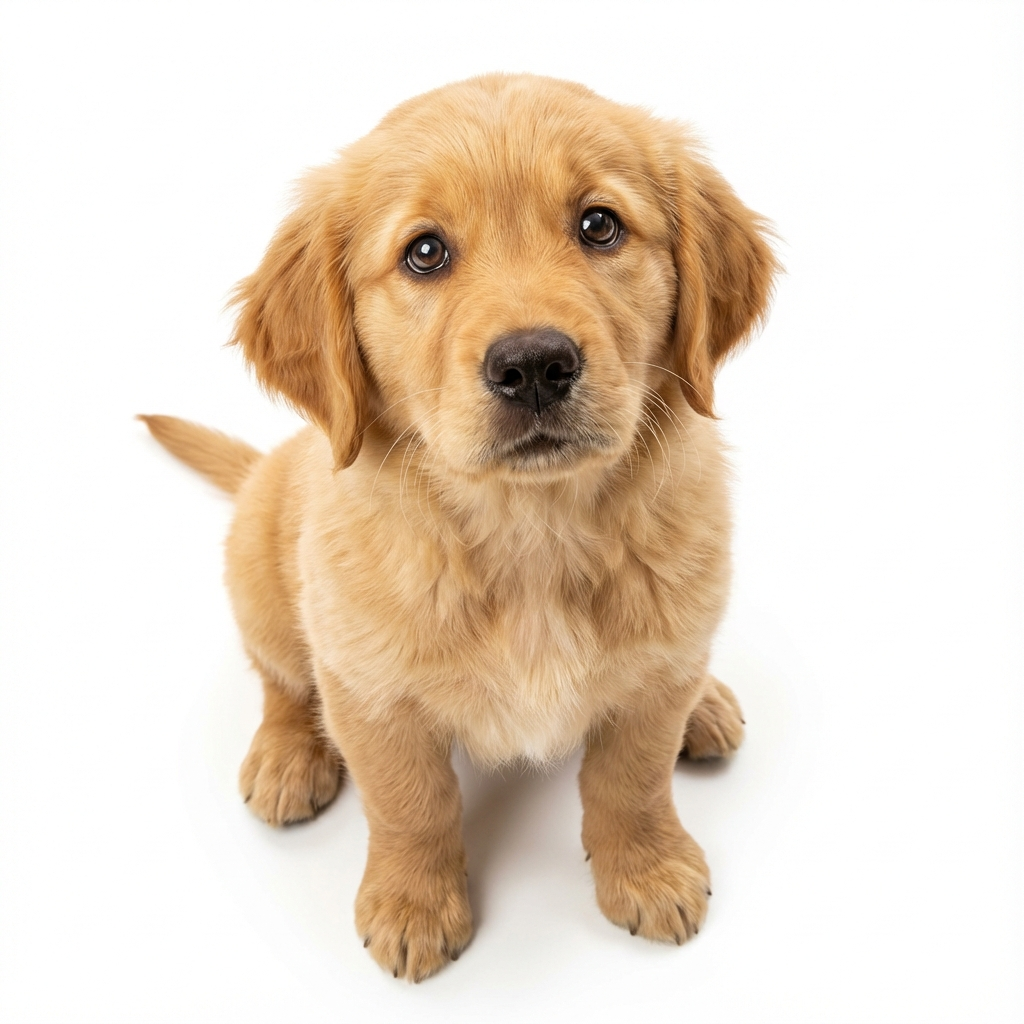
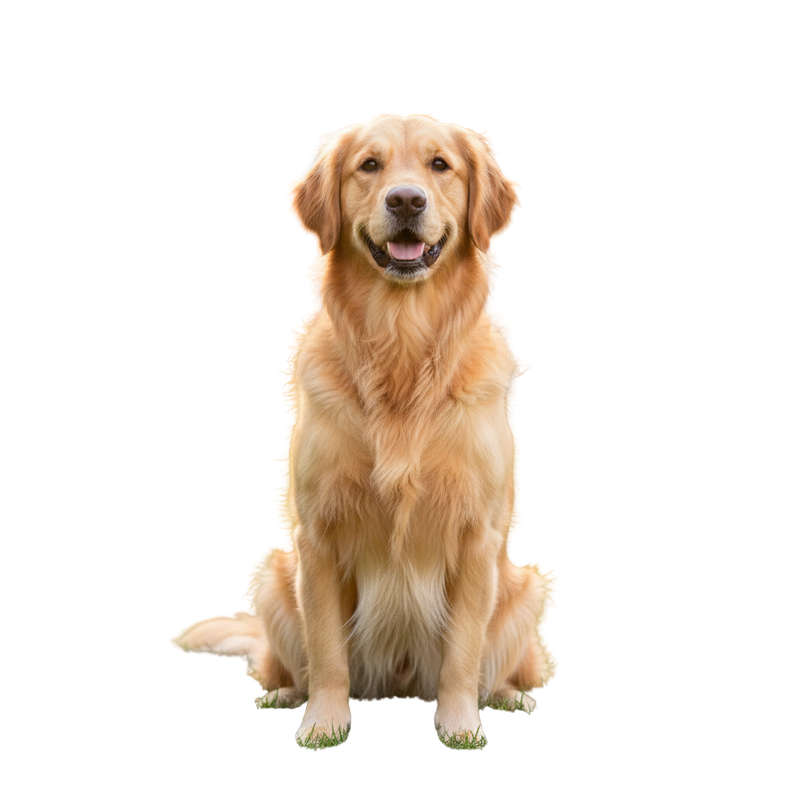
fix: integrated transparent dog image, fixed text proportions, z-index conflicts, added canine spirit to sales page

diff --git a/SITE/client/src/pages/SalesPage.tsx b/SITE/client/src/pages/SalesPage.tsx
@@ -29,32 +29,33 @@ export default function SalesPage() {
   return (
     <div className="min-h-screen bg-background text-white selection:bg-primary/30 pb-32">
       {/* SCARCITY HEADER */}
-      <div className="fixed top-0 left-0 right-0 z-[100] bg-primary/90 text-black py-2 px-4 shadow-[0_0_50px_rgba(255,234,0,0.5)]">
-        <div className="max-w-4xl mx-auto flex justify-between items-center font-black text-[10px] md:text-sm uppercase tracking-tighter">
+      <div className="fixed top-0 left-0 right-0 z-[100] bg-primary/90 text-black py-3 px-4 shadow-[0_0_50px_rgba(255,234,0,0.5)]">
+        <div className="max-w-4xl mx-auto flex justify-between items-center font-black text-[9px] md:text-sm uppercase tracking-tight">
           <div className="flex items-center gap-2">
-            <Zap className="w-4 h-4 animate-bounce" />
-            OFERTA POR TIEMPO LIMITADO PARA MÉXICO
+            <Zap className="w-3 h-3 md:w-4 md:h-4 animate-bounce" />
+            <span className="hidden md:inline">OFERTA POR TIEMPO LIMITADO PARA MÉXICO</span>
+            <span className="md:hidden">OFERTA LIMITADA MX</span>
           </div>
           <div className="flex items-center gap-2">
-            EL PRECIO SUBE EN: <span className="text-sm md:text-lg">{formatTime(timeLeft)}</span>
+            <span className="hidden md:inline">EL PRECIO SUBE EN:</span>
+            <span className="text-base md:text-lg">{formatTime(timeLeft)}</span>
           </div>
         </div>
       </div>
 
-      <main className="pt-20 px-4 max-w-5xl mx-auto space-y-24">
+      <main className="pt-24 px-4 max-w-5xl mx-auto space-y-24">
         {/* HERO SECTION */}
         <section className="relative py-12">
-          {/* Floating Dog - Clean Cutout */}
+          {/* Floating Dog - REAL TRANSPARENT */}
           <motion.div
             initial={{ opacity: 0, scale: 0.8 }}
             animate={{ opacity: 1, scale: 1 }}
-            className="absolute -top-10 -right-10 md:-right-32 w-48 md:w-[400px] z-50 pointer-events-none"
+            className="absolute -top-10 right-0 md:-right-20 w-40 md:w-80 z-50 pointer-events-none"
           >
             <img
-              src="https://i.imgur.com/placeholder-dog.png"
+              src="/assets/dog-hero.png"
               alt="Happy Dog"
-              className="dog-float w-full"
-              style={{ filter: 'drop-shadow(0 40px 80px rgba(0,0,0,0.6))' }}
+              className="w-full drop-shadow-2xl"
             />
           </motion.div>
 
@@ -63,19 +64,19 @@ export default function SalesPage() {
               <span className="bg-white/5 border border-white/10 px-4 py-1 rounded-full text-[10px] font-black uppercase tracking-widest text-primary italic flex items-center gap-2 w-fit">
                 <Zap className="w-3 h-3" /> Entrenamiento de Bolsillo 15 Min/Día
               </span>
-              <h1 className="text-5xl md:text-[10rem] font-black leading-[0.85] tracking-tighter glow-text-yellow uppercase">
+              <h1 className="text-4xl md:text-8xl font-black leading-[0.85] tracking-tighter glow-text-yellow uppercase">
                 EL MÉTODO QUE <br />
                 <span className="text-primary italic">REPROGRAMA</span> <br />
                 A TU PERRO
               </h1>
             </div>
 
-            <p className="text-xl md:text-4xl font-bold text-white/50 leading-tight max-w-2xl">
-              Convierte tu celular en el <span className="text-white italic">manual de instrucciones</span> que <span className="text-white underline decoration-primary underline-offset-8">tu perro no trajo</span>. Resultados permanentes desde la primera sesión.
+            <p className="text-lg md:text-3xl font-bold text-white/60 leading-tight max-w-2xl">
+              Convierte tu celular en el <span className="text-white italic">manual de instrucciones</span> que <span className="text-white underline decoration-primary underline-offset-4">tu perro no trajo</span>. Resultados permanentes desde la primera sesión.
             </p>
 
             <div className="pt-6">
-              <Button onClick={() => document.getElementById('checkout')?.scrollIntoView({ behavior: 'smooth' })} className="yellow-cta px-12 py-10 text-xl font-black md:text-2xl shimmer animate-pulse-glow">
+              <Button onClick={() => document.getElementById('checkout')?.scrollIntoView({ behavior: 'smooth' })} className="yellow-cta px-10 py-8 text-lg md:text-xl font-black shimmer animate-pulse-glow">
                 ¡QUIERO UN PERRO EQUILIBRADO AHORA!
               </Button>
             </div>
@@ -104,10 +105,13 @@ export default function SalesPage() {
           </div>
         </section>
 
-        {/* PROOF SECTION - FIXED IMAGES */}
+        {/* PROOF SECTION - WITH DOG SPIRIT */}
         <section className="space-y-12">
-          <div className="text-center">
+          <div className="text-center space-y-4">
             <h2 className="text-3xl md:text-6xl font-black glow-text-yellow uppercase italic tracking-tighter">Resultados de Dueños 💎</h2>
+            <div className="flex justify-center">
+              <img src="/assets/dog-hero.png" alt="Happy Dog" className="w-24 md:w-32 opacity-20" />
+            </div>
           </div>
 
           <div className="flex overflow-x-auto gap-8 pb-10 scrollbar-hide px-4">
@@ -136,9 +140,12 @@ export default function SalesPage() {
           </div>
         </section>
 
-        {/* ARSENAL PREMIUM (PRODUCT) - FIXED STRUCTURE */}
+        {/* ARSENAL PREMIUM (PRODUCT) - WITH DOG IMAGE */}
         <section id="checkout" className="organic-card p-8 md:p-16 relative overflow-hidden border-primary/30 bg-primary/[0.02]">
-          <div className="absolute top-0 right-0 w-96 h-96 bg-primary/10 rounded-full blur-[120px] -translate-y-1/2 translate-x-1/2" />
+          {/* Background Dog Watermark */}
+          <div className="absolute bottom-0 right-0 w-64 md:w-96 opacity-5 pointer-events-none">
+            <img src="/assets/dog-hero.png" alt="Dog" className="w-full" />
+          </div>
 
           <div className="relative z-10 space-y-12">
             <div className="text-center space-y-4">
@@ -185,7 +192,7 @@ export default function SalesPage() {
 
                   <Button
                     onClick={handleCheckout}
-                    className="yellow-cta w-full py-8 text-xl md:text-2xl font-black shimmer animate-pulse-glow"
+                    className="yellow-cta w-full py-8 text-lg md:text-xl font-black shimmer animate-pulse-glow flex items-center justify-center"
                   >
                     ¡OBTENER MI ACCESO AHORA!
                   </Button>

diff --git a/SITE/client/src/pages/WelcomeScreen.tsx b/SITE/client/src/pages/WelcomeScreen.tsx
@@ -7,7 +7,7 @@ export default function WelcomeScreen() {
   const { goToNextStep } = useQuiz();
 
   return (
-    <div className="w-full max-w-4xl mx-auto flex flex-col items-center text-center space-y-12 py-10">
+    <div className="w-full max-w-4xl mx-auto flex flex-col items-center text-center space-y-12 py-10 px-4">
       {/* ELITE BADGE */}
       <motion.div
         initial={{ opacity: 0, scale: 0.9 }}
@@ -19,31 +19,30 @@ export default function WelcomeScreen() {
       </motion.div>
 
       {/* HERO SECTION */}
-      <div className="relative w-full py-20 md:py-32">
-        {/* Floating Dog PNG - Clean Cutout */}
+      <div className="relative w-full py-12 md:py-20">
+        {/* Floating Dog PNG - REAL TRANSPARENT */}
         <motion.div
           initial={{ opacity: 0, scale: 0.8 }}
           animate={{ opacity: 1, scale: 1 }}
           transition={{ duration: 1.2, type: "spring" }}
-          className="absolute -top-10 -right-10 md:-right-24 w-48 md:w-[400px] z-20 pointer-events-none"
+          className="absolute -top-16 right-0 md:-right-12 w-32 md:w-64 z-20 pointer-events-none"
         >
           <img
-            src="https://i.imgur.com/placeholder-dog.png"
+            src="/assets/dog-hero.png"
             alt="Perrhijo"
-            className="dog-float w-full drop-shadow-2xl"
-            style={{ filter: 'drop-shadow(0 40px 80px rgba(0,0,0,0.6))' }}
+            className="w-full drop-shadow-2xl"
           />
         </motion.div>
 
-        <div className="relative z-10 space-y-8 text-left md:text-center">
-          <h1 className="text-6xl md:text-[10rem] font-black leading-[0.85] glow-text-yellow tracking-tighter">
+        <div className="relative z-10 space-y-6 text-left md:text-center">
+          <h1 className="text-5xl md:text-8xl font-black leading-[0.9] glow-text-yellow tracking-tighter">
             REPRO<span className="text-primary italic">GRAMA</span> <br />
             SU MENTE
           </h1>
 
-          <div className="max-w-xl md:mx-auto relative">
-            <p className="text-xl md:text-3xl font-bold text-white/50 leading-tight">
-              El manual de instrucciones que <span className="text-white italic">tu perro</span> no trajo. 15 minutos al día, sin gritos, desde <span className="text-white underline decoration-primary underline-offset-8">tu celular</span>.
+          <div className="max-w-xl md:mx-auto">
+            <p className="text-lg md:text-2xl font-bold text-white/60 leading-tight">
+              El manual de instrucciones que <span className="text-white italic">tu perro</span> no trajo. <span className="text-white">15 minutos al día</span>, sin gritos, desde <span className="text-white underline decoration-primary underline-offset-4">tu celular</span>.
             </p>
           </div>
         </div>
@@ -53,22 +52,22 @@ export default function WelcomeScreen() {
       <div className="w-full max-w-md space-y-8 relative z-30">
         <Button
           onClick={goToNextStep}
-          className="yellow-cta w-full py-12 md:py-14 text-xl md:text-2xl font-black shimmer animate-pulse-glow"
+          className="yellow-cta w-full py-8 text-lg md:text-xl font-black shimmer animate-pulse-glow flex items-center justify-center"
         >
           ¡COMENZAR EVALUACIÓN!
         </Button>
 
         <div className="flex justify-center gap-8 md:gap-12 opacity-40">
           <div className="flex flex-col items-center gap-2">
-            <Smartphone className="w-6 h-6" />
+            <Smartphone className="w-5 h-5" />
             <span className="text-[8px] font-black uppercase tracking-widest text-white/60">Mobile First</span>
           </div>
           <div className="flex flex-col items-center gap-2">
-            <Zap className="w-6 h-6" />
+            <Zap className="w-5 h-5" />
             <span className="text-[8px] font-black uppercase tracking-widest text-white/60">Resultados Flash</span>
           </div>
           <div className="flex flex-col items-center gap-2">
-            <Sparkles className="w-6 h-6" />
+            <Sparkles className="w-5 h-5" />
             <span className="text-[8px] font-black uppercase tracking-widest text-white/60">Sin Castigos</span>
           </div>
         </div>

diff --git a/SITE/client/src/components/ProgressBar.tsx b/SITE/client/src/components/ProgressBar.tsx
@@ -12,7 +12,7 @@ export default function ProgressBar() {
   };
 
   return (
-    <div className="fixed top-0 left-0 right-0 h-1 z-[200] bg-white/5">
+    <div className="fixed top-0 left-0 right-0 h-1 z-[50] bg-white/5">
       <motion.div
         initial={{ width: 0 }}
         animate={{
@@ -22,7 +22,7 @@ export default function ProgressBar() {
         transition={{ duration: 0.5, ease: "easeOut" }}
         className="h-full shadow-[0_0_15px_rgba(255,234,0,0.3)]"
       />
-      <div className="absolute top-4 right-6 text-[8px] font-black text-white/30 uppercase tracking-[0.4em]">
+      <div className="absolute top-3 right-6 text-[8px] font-black text-white/30 uppercase tracking-[0.4em]">
         {Math.round(progress)}% <span className="text-primary">Sync</span>
       </div>
     </div>
